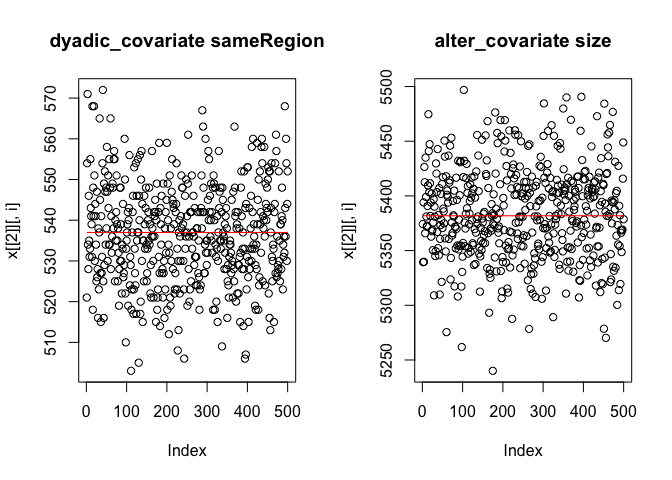
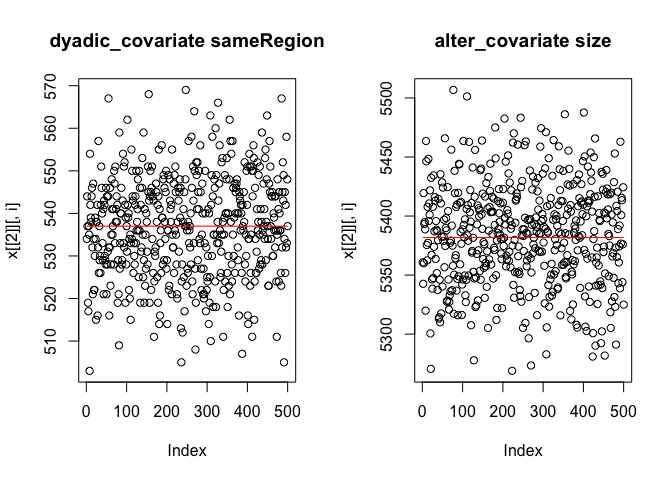
new readme with sticker

diff --git a/README.md b/README.md
@@ -1,13 +1,7 @@
 
 <!-- README.md is generated from README.Rmd. Please edit that file -->
 
-<<<<<<< HEAD
-## Imortant:
-
-# MoNAn <img src="https://raw.githubusercontent.com/stocnet/MoNAn/main/MoNAn_logo.pdf" align="right" width="150"/>
-=======
 # MoNAn <img src="https://raw.githubusercontent.com/stocnet/MoNAn/main/MoNAn_logo.png" align="right" width="150"/>
->>>>>>> cd9defa (Readme update)
 
 <!-- badges: start -->
 <!-- badges: end -->
@@ -351,17 +345,17 @@ myResDN <- monanEstimate(
 #> 
 #> New parameters:
 #> loops 
-#>  2.51763435258541 
+#>  2.47719008038019 
 #>  reciprocity_min 
-#>  0.834828250636214 
+#>  0.8170014961106 
 #>  dyadic_covariate sameRegion 
-#>  1.64181328087909 
+#>  1.65624354045776 
 #>  alter_covariate size 
-#>  0.0372435416394513 
+#>  0.0383984510107496 
 #>  resource_covar_to_node_covar region sex 
-#>  -0.641789313709824 
+#>  -0.672156963303597 
 #>  loops_resource_covar sex 
-#>  -0.383957699841637 
+#>  -0.50026437729971 
 #> 
 #> Sub phase2:
 #>  burn-in 12614 steps
@@ -371,17 +365,17 @@ myResDN <- monanEstimate(
 #> 
 #> New parameters:
 #> loops 
-#>  2.5806800378646 
+#>  2.57881245708676 
 #>  reciprocity_min 
-#>  0.817646745095517 
+#>  0.82059507772354 
 #>  dyadic_covariate sameRegion 
-#>  1.67785458916978 
+#>  1.68265805697851 
 #>  alter_covariate size 
-#>  0.0348426449336017 
+#>  0.0382791491105974 
 #>  resource_covar_to_node_covar region sex 
-#>  -0.647149981003057 
+#>  -0.650749744567186 
 #>  loops_resource_covar sex 
-#>  -0.368013471832615 
+#>  -0.360063776775848 
 #> 
 #> Sub phase3:
 #>  burn-in 12614 steps
@@ -391,17 +385,17 @@ myResDN <- monanEstimate(
 #> 
 #> New parameters:
 #> loops 
-#>  2.58360255204794 
+#>  2.58722933629602 
 #>  reciprocity_min 
-#>  0.816263032267627 
+#>  0.80719881123667 
 #>  dyadic_covariate sameRegion 
-#>  1.68497720615453 
+#>  1.68653299328539 
 #>  alter_covariate size 
-#>  0.0373784468598572 
+#>  0.0371499839110027 
 #>  resource_covar_to_node_covar region sex 
-#>  -0.649421687382978 
+#>  -0.63972540316634 
 #>  loops_resource_covar sex 
-#>  -0.359785173336673
+#>  -0.363743582563876
 #> 
 #> Stopping cluster
 #> Starting phase 3:
@@ -436,7 +430,7 @@ estimates), another run is necessary.
 
 ``` r
 max(abs(myResDN$convergenceStatistics))
-#> [1] 0.1277985
+#> [1] 0.04657673
 ```
 
 If convergence is too high, update algorithm, re-run estimation with
@@ -463,7 +457,7 @@ myResDN <- monan07(
 ``` r
 # check convergence
 max(abs(myResDN$convergenceStatistics))
-#> [1] 0.1277985
+#> [1] 0.04657673
 ```
 
 In case convergence is still poor, updating the algorithm might be
@@ -476,19 +470,19 @@ convergence ratio. All values in the final column should be below 0.1
 myResDN
 #> Results
 #>                                   Effects   Estimates StandardErrors
-#> 1                                   loops  2.58360255     0.19347153
-#> 2                         reciprocity_min  0.81626303     0.17821469
-#> 3             dyadic_covariate sameRegion  1.68497721     0.11555656
-#> 4                    alter_covariate size  0.03737845     0.02405928
-#> 5 resource_covar_to_node_covar region sex -0.64942169     0.16686630
-#> 6                loops_resource_covar sex -0.35978517     0.22256681
-#>    Convergence
-#> 1 -0.013508063
-#> 2 -0.005882665
-#> 3 -0.036478874
-#> 4  0.048883634
-#> 5 -0.127798534
-#> 6  0.061687170
+#> 1                                   loops  2.58722934     0.18243245
+#> 2                         reciprocity_min  0.80719881     0.17690206
+#> 3             dyadic_covariate sameRegion  1.68653299     0.11852636
+#> 4                    alter_covariate size  0.03714998     0.02344898
+#> 5 resource_covar_to_node_covar region sex -0.63972540     0.16871726
+#> 6                loops_resource_covar sex -0.36374358     0.21404293
+#>   Convergence
+#> 1  0.04657673
+#> 2 -0.03117671
+#> 3 -0.02457890
+#> 4  0.04143081
+#> 5 -0.03745728
+#> 6  0.03644100
 ```
 
 ## Diagnostics of the estimated model
@@ -502,7 +496,7 @@ problematic and indicate that a higher thinning is needed.
 
 ``` r
 autoCorrelationTest(myResDN)
-#> [1] 0.09385618
+#> [1] 0.09443415
 ```
 
 The output of extractTraces indicates the correlation of statistics
@@ -534,7 +528,7 @@ test_ME.2 <- scoreTest(myResDN, myEffects2)
 test_ME.2
 #> Results
 #>            Effects pValuesParametric pValuesNonParametric
-#> 1 transitivity_min      9.420474e-09                    0
+#> 1 transitivity_min      6.184879e-09                    0
 #> 
 #>  Parametric p-values: small = more significant 
 #>  Non-parametric p-values: further away from 0.5 = more significant
